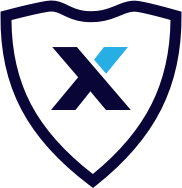
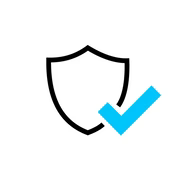
[SOL-866] Shipping Protection Line Item Support (#86)
* [SOL-866] Added the ability to add Shipping Protection as a SKU vs a checkout fee.

* [SOL-866] Fixed product image upload issues.

* [SOL-866] Hotfix — $categories returning null was causing a PHP fatal issue.

* Using image_url and image_path variables now

* Removed access token from displaying in the error logs.

* Added label for Shipping Protection SKU/Fee setting.

diff --git a/helloextend-protection/helloextend-protection.php b/helloextend-protection/helloextend-protection.php
@@ -44,8 +44,9 @@ if (!defined('WPINC')) {
  * Start at version 1.0.0 and use SemVer - https://semver.org
  * Rename this for your plugin and update it as you release new versions.
  */
-define('HELLOEXTEND_PROTECTION_VERSION', '1.0.0');
+define('HELLOEXTEND_PROTECTION_VERSION', '1.1.0');
 define('HELLOEXTEND_PRODUCT_PROTECTION_SKU', 'helloextend-product-protection');
+define('HELLOEXTEND_SHIPPING_PROTECTION_SKU', 'helloextend-shipping-protection');
 
 
 define( 'HELLOEXTEND_PLUGIN_FILE', __FILE__ );
@@ -297,33 +298,95 @@ function helloextend_product_protection_create()
             HelloExtend_Protection_Logger::helloextend_log_error($e->getMessage());
         }
 
-        // upload image and associate to product
         try {
-            $product_id     = $product->get_id();
-            //check if image exists
-            if (file_exists(plugin_dir_path('images/Extend_icon.png'))) {
+            $product_id = $product->get_id();
+            $image_path = HELLOEXTEND_PLUGIN_DIR . 'images/Extend_icon.png';
+            $image_url  = HELLOEXTEND_PLUGIN_URL . 'images/Extend_icon.png';
 
-                $upload         = wc_rest_upload_image_from_url(HELLOEXTEND_PLUGIN_URL . '/images/Extend_icon.png');
+            if (file_exists($image_path)) {
+                $upload = wc_rest_upload_image_from_url($image_url);
+
                 if (is_wp_error($upload)) {
-                    HelloExtend_Protection_Logger::helloextend_log_error('Could not upload extend logo from ' . HELLOEXTEND_PLUGIN_URL . '/images/Extend_icon.png : ' . $upload->get_error_message());
+                    HelloExtend_Protection_Logger::helloextend_log_error('Could not upload Extend logo from ' . $image_url . ' : ' . $upload->get_error_message());
                     return false;
                 }
 
                 $product_img_id = wc_rest_set_uploaded_image_as_attachment($upload, $product_id);
                 if (is_wp_error($product_img_id)) {
-                    HelloExtend_Protection_Logger::helloextend_log_error('Could not retrieve product image id : ');
+                    HelloExtend_Protection_Logger::helloextend_log_error('Could not retrieve product image ID.');
                     return false;
                 }
 
-                //set the product image
                 set_post_thumbnail($product_id, $product_img_id);
             } else {
-                HelloExtend_Protection_Logger::helloextend_log_error('Extend_icon file path incorrect: ' . HELLOEXTEND_PLUGIN_DIR.'/images/Extend_icon.png');
+                HelloExtend_Protection_Logger::helloextend_log_error('Extend_icon file path incorrect: ' . $image_path);
             }
         } catch (\Exception $e) {
             HelloExtend_Protection_Logger::helloextend_log_error($e->getMessage());
         }
     }
+}
+
+function helloextend_get_or_create_shipping_protection_product($fee_amount) {
+    $query = new WP_Query([
+        'post_type'  => 'product',
+        'meta_key'   => '_helloextend_shipping_protection_product',
+        'meta_value' => '1',
+        'post_status'=> 'any',
+        'numberposts'=> 1
+    ]);
+
+    if (!empty($query->posts)) {
+        $product_id = $query->posts[0]->ID;
+        update_post_meta($product_id, '_price', $fee_amount);
+        update_post_meta($product_id, '_regular_price', $fee_amount);
+        return $product_id;
+    }
+
+    $product_id = wp_insert_post([
+        'post_title'   => 'Extend Shipping Protection',
+        'post_content' => 'Optional shipping protection offered at checkout.',
+        'post_status'  => 'publish',
+        'post_type'    => 'product',
+    ]);
+
+    if (!is_wp_error($product_id)) {
+        update_post_meta($product_id, '_virtual', 'yes');
+        update_post_meta($product_id, '_price', $fee_amount);
+        update_post_meta($product_id, '_regular_price', $fee_amount);
+        update_post_meta($product_id, '_visibility', 'hidden');
+        update_post_meta($product_id, '_catalog_visibility', 'hidden');
+        update_post_meta($product_id, '_helloextend_shipping_protection_product', 1);
+        update_post_meta($product_id, '_sku', HELLOEXTEND_SHIPPING_PROTECTION_SKU);
+        wp_set_object_terms($product_id, 'simple', 'product_type');
+
+        // Upload image and associate to product
+        $image_path = HELLOEXTEND_PLUGIN_DIR . 'images/Extend_shipping_icon.png';
+        $image_url  = HELLOEXTEND_PLUGIN_URL . 'images/Extend_shipping_icon.png';
+
+        if (file_exists($image_path)) {
+            $upload         = wc_rest_upload_image_from_url($image_url);
+            if (is_wp_error($upload)) {
+                HelloExtend_Protection_Logger::helloextend_log_error('Could not upload extend logo from ' . $image_url . $upload->get_error_message());
+                return false;
+            }
+
+            $product_img_id = wc_rest_set_uploaded_image_as_attachment($upload, $product_id);
+            if (is_wp_error($product_img_id)) {
+                HelloExtend_Protection_Logger::helloextend_log_error('Could not retrieve product image id : ');
+                return false;
+            }
+
+            //set the product image
+            set_post_thumbnail($product_id, $product_img_id);
+        } else {
+            HelloExtend_Protection_Logger::helloextend_log_error('Extend_icon file path incorrect: ' . $image_path);
+        }
+
+        return $product_id;
+    }
+
+    return false;
 }
 
 /* extend logger */
@@ -400,28 +463,64 @@ function helloextend_remove_shipping_protection_fee()
 
 function helloextend_set_shipping_fee()
 {
-    if (is_admin() && !defined('DOING_AJAX') || !is_checkout()) {
+    if ((is_admin() && !defined('DOING_AJAX')) || !is_checkout()) {
         return;
     }
 
-    $fee_label  = __('Extend Shipping Protection', 'helloextend-protection');
+    $fee_label = __('Extend Shipping Protection', 'helloextend-protection');
+    $shipping_fee = WC()->session->get('shipping_fee');
+    $remove_fee = WC()->session->get('shipping_fee_remove');
+    $fee_amount = WC()->session->get('shipping_fee_value');
 
-    if (1 == WC()->session->get('shipping_fee')) {
+    $options = get_option('helloextend_protection_for_woocommerce_shipping_protection_settings');
+    $add_as_sku = isset($options['helloextend_sp_add_sku']) && $options['helloextend_sp_add_sku'];
 
-        $fee_amount = WC()->session->get('shipping_fee_value');
+    if ($shipping_fee == 1) {
+        if ($add_as_sku) {
 
-        WC()->cart->add_fee($fee_label, $fee_amount);
-    } elseif (1 == WC()->session->get('shipping_fee_remove')) {
-        $fees = WC()->cart->get_fees();
-        foreach ($fees as $key => $fee) {
-            if ($fees[$key]->name == $fee_label) {
-                unset($fees[$key]);
+            $product_id = helloextend_get_or_create_shipping_protection_product($fee_amount);
+            if (!$product_id) {
+                HelloExtend_Protection_Logger::helloextend_log_error('Could not create or retrieve shipping protection product');
+                return;
             }
+            // Avoid duplicate product in cart
+            $already_in_cart = false;
+            foreach (WC()->cart->get_cart() as $cart_item_key => $values) {
+                if ($values['product_id'] == $product_id) {
+                    $already_in_cart = true;
+                    break;
+                }
+            }
+
+            if (!$already_in_cart) {
+                WC()->cart->add_to_cart($product_id, 1);
+            }
+        } else {
+            WC()->cart->add_fee($fee_label, $fee_amount);
         }
-        WC()->cart->fees_api()->set_fees($fees);
+    } elseif ($remove_fee == 1) {
+        if ($add_as_sku) {
+            // Remove the product from cart
+            foreach (WC()->cart->get_cart() as $cart_item_key => $values) {
+                $product = $values['data'];
+                if ($product && get_post_meta($product->get_id(), '_helloextend_shipping_protection_product', true)) {
+                    WC()->cart->remove_cart_item($cart_item_key);
+                }
+            }
+        } else {
+            $fees = WC()->cart->get_fees();
+            foreach ($fees as $key => $fee) {
+                if ($fee->name == $fee_label) {
+                    unset($fees[$key]);
+                }
+            }
+            WC()->cart->fees_api()->set_fees($fees);
+        }
+
         WC()->session->set('shipping_fee_remove', false);
     }
 }
+
 
 function helloextend_save_shipping_protection_quote_id($order_id)
 {
@@ -457,7 +556,7 @@ function helloextend_add_protection_contract($item_id, $item)
             $url         = 'https://customers.extend.com/en-US/warranty_terms';
         }
 
-        $token = HelloExtend_Protection_Global::get_helloextend_token();
+        $token = HelloExtend_Protection_Global::helloextend_get_token();
 
         // Get product object
         if (method_exists($item, 'get_product')) {

diff --git a/helloextend-protection/admin/class-helloextend-protection-admin.php b/helloextend-protection/admin/class-helloextend-protection-admin.php
@@ -496,13 +496,13 @@ class HelloExtend_Protection_Admin
             'helloextend_setting_shipping_protection_section' // section
         );
 
-        // add_settings_field(
-        //     'enable_helloextend_sp', // id
-        //     'Enable Shipping Protection', // title
-        //     array( $this, 'enable_helloextend_sp_callback' ), // callback
-        //     'helloextend-protection-for-woocommerce-settings-admin-shipping-protection', // page
-        //     'helloextend_setting_shipping_protection_section' // section
-        // );
+        add_settings_field(
+            'helloextend_sp_add_sku', // id
+            'Display Shipping Protection as a Line Item in Cart', // title
+            array($this, 'helloextend_sp_add_sku_callback'), // callback
+            'helloextend-protection-for-woocommerce-settings-admin-shipping-protection', // page
+            'helloextend_setting_shipping_protection_section' // section
+        );
 
         add_settings_field(
             'helloextend_sp_offer_location', // id
@@ -594,6 +594,7 @@ class HelloExtend_Protection_Admin
         if (get_option('helloextend_protection_for_woocommerce_shipping_protection_settings') == null) {
             $settingsSP = [
                 'enable_helloextend_sp'               => '1',
+                'helloextend_sp_add_sku'              => '1',
                 'enable_sp_offer_location'       => 'woocommerce_review_order_before_payment',
                 'enable_sp_offer_location_other' => '',
             ];
@@ -669,6 +670,10 @@ class HelloExtend_Protection_Admin
 
         if (isset($input['enable_helloextend_sp'])) {
             $sanitary_values['enable_helloextend_sp'] = $input['enable_helloextend_sp'];
+        }
+
+        if (isset($input['helloextend_sp_add_sku'])) {
+            $sanitary_values['helloextend_sp_add_sku'] = $input['helloextend_sp_add_sku'];
         }
 
         if (isset($input['enable_helloextend_debug'])) {
@@ -796,6 +801,15 @@ class HelloExtend_Protection_Admin
             '<input type="checkbox" name="helloextend_protection_for_woocommerce_shipping_protection_settings[enable_helloextend_sp]" id="enable_helloextend_sp" value="1" %s>',
             (isset($this->helloextend_protection_for_woocommerce_settings_shipping_protection_options['enable_helloextend_sp'])
                 && $this->helloextend_protection_for_woocommerce_settings_shipping_protection_options['enable_helloextend_sp'] === '1') ? 'checked' : ''
+        );
+    }
+
+    public function helloextend_sp_add_sku_callback()
+    {
+        printf(
+            '<input type="checkbox" name="helloextend_protection_for_woocommerce_shipping_protection_settings[helloextend_sp_add_sku]" id="helloextend_sp_add_sku" value="1" %s> <label for="helloextend_sp_add_sku">Leave unchecked for Shipping Protection as a fee</label>',
+            (isset($this->helloextend_protection_for_woocommerce_settings_shipping_protection_options['helloextend_sp_add_sku'])
+                && $this->helloextend_protection_for_woocommerce_settings_shipping_protection_options['helloextend_sp_add_sku'] === '1') ? 'checked' : ''
         );
     }
 

diff --git a/helloextend-protection/includes/class-helloextend-global.php b/helloextend-protection/includes/class-helloextend-global.php
@@ -192,6 +192,9 @@ class HelloExtend_Protection_Global
             $settings['enable_helloextend_sp'] = array_key_exists('enable_helloextend_sp', $helloextend_protection_shipping_protection_settings)
                 ? $helloextend_protection_shipping_protection_settings['enable_helloextend_sp'] : 0;
 
+            $settings['helloextend_sp_add_sku'] = array_key_exists('helloextend_sp_add_sku', $helloextend_protection_shipping_protection_settings)
+                ? $helloextend_protection_shipping_protection_settings['helloextend_sp_add_sku'] : 0;
+
             $settings['helloextend_sp_offer_location'] = array_key_exists('helloextend_sp_offer_location', $helloextend_protection_shipping_protection_settings)
                 ? $helloextend_protection_shipping_protection_settings['helloextend_sp_offer_location']
                 : 'woocommerce_review_order_after_shipping';
@@ -490,19 +493,20 @@ class HelloExtend_Protection_Global
     public static function helloextend_get_first_valid_category($categories): string {
         $ignored_categories = (array) get_option('helloextend_protection_for_woocommerce_ignored_categories');
 
-        // If ignored categories doesn't exist or is empty, return first category
-        if (is_null($ignored_categories) || count($ignored_categories) == 0) {
-            return $categories[0]->name;
+        if (empty($categories) || !is_array($categories)) {
+            return 'Uncategorized'; // or any safe fallback
         }
 
-        // Find the first category that is not ignored and return it
+        if (is_null($ignored_categories) || count($ignored_categories) == 0) {
+            return $categories[0]->name ?? 'Uncategorized';
+        }
+
         foreach ($categories as $category) {
             if (!in_array($category->term_id, $ignored_categories)) {
-                return $category->name;
+                return $category->name ?? 'Uncategorized';
             }
         }
 
-        // If all categories are ignored, return the first one in the array
-        return $categories[0]->name;
+        return $categories[0]->name ?? 'Uncategorized';
     }
 }

diff --git a/helloextend-protection/includes/class-helloextend-protection-shipping.php b/helloextend-protection/includes/class-helloextend-protection-shipping.php
@@ -75,7 +75,7 @@ class HelloExtend_Protection_Shipping
 
     /**
      * This method adds to xml export an SKU tag in order to identify
-     * Route Protection to ShipStation integration
+     * Extend Protection to ShipStation integration
      *
      * @param  $order_xml
      * @return mixed
@@ -107,6 +107,7 @@ class HelloExtend_Protection_Shipping
 
         // add offer element
         $enable_helloextend_sp          = $this->settings['enable_helloextend_sp'];
+        $helloextend_sp_add_sku        = $this->settings['helloextend_sp_add_sku'];
         $env                       = $this->settings['helloextend_environment'];
         $cart_items                = WC()->cart->get_cart();
         $ajax_url                  = admin_url('admin-ajax.php');
@@ -140,7 +141,7 @@ class HelloExtend_Protection_Shipping
             wp_localize_script(
                 'helloextend_shipping_integration_script',
                 'ExtendShippingIntegration',
-                compact('env', 'items', 'enable_helloextend_sp', 'ajax_url', 'update_order_review_nonce')
+                compact('env', 'items', 'enable_helloextend_sp', 'helloextend_sp_add_sku', 'ajax_url', 'update_order_review_nonce')
             );
             echo '<tr><td colspan="2"><div id="helloextend-shipping-offer" style="height: 120px;"></div></td></tr>';
         } else {

diff --git a/helloextend-protection/includes/class-helloextend-protection-orders.php b/helloextend-protection/includes/class-helloextend-protection-orders.php
@@ -250,9 +250,14 @@ class HelloExtend_Protection_Orders
         // Get Token from Global function
         $token = HelloExtend_Protection_Global::helloextend_get_token();
 
-        // Log the token
-        if ($this->settings['enable_helloextend_debug'] == 1) {
-            HelloExtend_Protection_Logger::helloextend_log_debug('Token: ' . $token);
+        // If token exists, log successful token
+        if ($this->settings['enable_helloextend_debug'] == 1 && $token) {
+            HelloExtend_Protection_Logger::helloextend_log_debug('Access token created successfully');
+        }
+        // If token does not exist, log error
+        if ($this->settings['enable_helloextend_debug'] == 1 && !$token) {
+            HelloExtend_Protection_Logger::helloextend_log_error('Error:Access token was not created, exiting order creation');
+            return;
         }
 
         $request_args = array(
